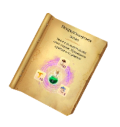
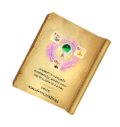
fix diary

diff --git a/src/view/component/dialog/ReplicaDiaryPanel.ts b/src/view/component/dialog/ReplicaDiaryPanel.ts
@@ -12,6 +12,8 @@ import Settings from '../../../core/service/Settings';
 export default class ReplicaDiaryPanel extends BasePanel {
     private static INITIAL_REVEAL_DELAY_MS = 10;
     private static INITIAL_REVEAL_FADE_MS = 500;
+    private static DIARY_EFFECT_LOCAL_X = 129;
+    private static DIARY_EFFECT_LOCAL_Y = 38 - 56 / 1.18 + 13;
 
     private blackTransparent: Phaser.Graphics;
     private diaryLayout: BasePanel;
@@ -21,8 +23,9 @@ export default class ReplicaDiaryPanel extends BasePanel {
 
     private finalScale = 0.9;
     private emitter: Phaser.Particles.Arcade.Emitter;
+    private emitterStartEvent: Phaser.TimerEvent;
     private layoutAlphaTween: Phaser.Tween;
-    private emitterAlphaTween: Phaser.Tween;
+    private diaryHighlightColor: string;
 
     private static RIGHT_SIDE_DX = -70;
 
@@ -39,47 +42,11 @@ export default class ReplicaDiaryPanel extends BasePanel {
         //diaryPreset - показ дневника во время мини-игры
         let diaryContent = diaryPrest && r.context.level != 3 ? DiaryConfiguration.getNextrecipe(r.context.level) : DiaryConfiguration.getCurrentRecipe(r.context.level, true);
 
-        if (highlight) {
-            // let emitter = game.add.emitter(0, 0, /*game.world.centerX, game.world.centerY,*/ 200);
-            this.emitter = game.add.emitter(game.world.centerX, game.world.centerY - 200, 10);
+        this.diaryHighlightColor = diaryContent && diaryContent.highlightColor ? diaryContent.highlightColor : null;
 
-            if(diaryContent.highlightColor && diaryContent.highlightColor == "pink"){
-                // this.emitter.makeParticles(["p6", "p7"]);
-                this.emitter.makeParticles(
-                    //warning! p6 and p7 have to be on the same atlas!
-                    SpriteUtils.getAtlasKeyAndFrame(this.game, "p6").atlasKey,
-                    [SpriteUtils.getAtlasKeyAndFrame(this.game, "p6").frameName, SpriteUtils.getAtlasKeyAndFrame(this.game, "p7").frameName]
-                );
-            } else if(diaryContent.highlightColor && diaryContent.highlightColor == "blue"){
-                // this.emitter.makeParticles(["p8", "p9"]);
-                this.emitter.makeParticles(
-                    //warning! p8 and p9 have to be on the same atlas!
-                    SpriteUtils.getAtlasKeyAndFrame(this.game, "p8").atlasKey,
-                    [SpriteUtils.getAtlasKeyAndFrame(this.game, "p8").frameName, SpriteUtils.getAtlasKeyAndFrame(this.game, "p9").frameName]
-                );
-            } else { //green
-                // this.emitter.makeParticles(["p5", "p2"]);
-                this.emitter.makeParticles(
-                    //warning! p2 and p5 have to be on the same atlas!
-                    SpriteUtils.getAtlasKeyAndFrame(this.game, "p2").atlasKey,
-                    [SpriteUtils.getAtlasKeyAndFrame(this.game, "p2").frameName, SpriteUtils.getAtlasKeyAndFrame(this.game, "p5").frameName]
-                );
-            }
-
-            this.emitter.gravity = new Phaser.Point(0, 0);
-            this.emitter.minSpeed = 100;
-            this.emitter.maxSpeed = 300;
-            // emitter.maxParticleScale = 0.7;
-            this.emitter.width = 400;
-            this.emitter.height = 600;
-            // emitter.alpha = 0.7;
-            this.emitter.start(false, 5000, 200);
-            this.emitter.setAlpha(0.7, 0, 5000, Settings.isOnlyLinearAnimations()?  Phaser.Easing.Linear.None :Phaser.Easing.Exponential.In, false);
-            this.emitter.setScale(0, 0.7, 0, 0.7, 1450, Settings.isOnlyLinearAnimations()?  Phaser.Easing.Linear.None :Phaser.Easing.Quadratic.In, false)
-            this.emitter.alpha = diaryPrest ? 0 : 1;
-            // emitter.x = 0;
-            // emitter.y = 0;
-            // this.addChild(emitter)
+        if (highlight && !diaryPrest) {
+            this.emitter = this.createDiaryEmitter(new Phaser.Point(game.world.centerX, game.world.centerY - 200));
+            this.startDiaryEmitter();
         }
 
        
@@ -96,8 +63,6 @@ export default class ReplicaDiaryPanel extends BasePanel {
             this.addChild(this.blackTransparent);
         }
 
-        
-
         if (!diaryContent) {
             return;
         }
@@ -109,7 +74,7 @@ export default class ReplicaDiaryPanel extends BasePanel {
         } else if (diaryContent.picture) {
             this.diaryLayout = new DiaryPictureLayout(this.game, diaryContent, this.game.width / 2 + 30, this.gameCenterY - 100);
         } else {
-            this.diaryLayout = new DiaryRecipeLayout(this.game, diaryContent, this.game.width / 2 + 30, this.gameCenterY - 100, animationsDelay);
+            this.diaryLayout = new DiaryRecipeLayout(this.game, diaryContent, this.game.width / 2 + 30, this.gameCenterY - 100, animationsDelay, !diaryPrest);
         }
 
         this.diaryLayout.anchor.set(0.5, 0.5)
@@ -146,6 +111,8 @@ export default class ReplicaDiaryPanel extends BasePanel {
     public show() {
         let time = this.diaryPreset ? 1000 : 300;
         this.stopRevealTweens();
+        this.stopEmitterStartEvent();
+        this.bringEmitterToStageTop();
 
         let alphaDelay = this.diaryPreset ? ReplicaDiaryPanel.INITIAL_REVEAL_DELAY_MS : 500;
         let alphaTime = this.diaryPreset ? ReplicaDiaryPanel.INITIAL_REVEAL_FADE_MS : time;
@@ -158,14 +125,6 @@ export default class ReplicaDiaryPanel extends BasePanel {
         this.layoutAlphaTween.onComplete.addOnce(() => {
             this.layoutAlphaTween = null;
         });
-
-        if (this.diaryPreset && this.emitter) {
-            this.emitter.alpha = 0;
-            this.emitterAlphaTween = this.game.add.tween(this.emitter).to({ alpha: 1 }, alphaTime, alphaEasing, true, alphaDelay, 0, false);
-            this.emitterAlphaTween.onComplete.addOnce(() => {
-                this.emitterAlphaTween = null;
-            });
-        }
         if (this.blackTransparent) {
             this.game.add.tween(this.blackTransparent).to({ alpha: 0.5 }, time, Settings.isOnlyLinearAnimations()?  Phaser.Easing.Linear.None :Phaser.Easing.Quadratic.In, true, 500, 0, false);
         }
@@ -174,6 +133,10 @@ export default class ReplicaDiaryPanel extends BasePanel {
 
         if (this.diaryPreset) {
             this.game.add.tween(this.diaryLayout).to({ angle: 365 }, time, Settings.isOnlyLinearAnimations()?  Phaser.Easing.Linear.None :Phaser.Easing.Quadratic.In, true, 500, 0, false);
+            this.emitterStartEvent = this.game.time.events.add(500 + time, () => {
+                this.emitterStartEvent = null;
+                this.recreateDiaryEmitterAtCurrentPosition();
+            });
         }
 
         // if (highlight) {
@@ -192,6 +155,7 @@ export default class ReplicaDiaryPanel extends BasePanel {
 
     public hide() {
         this.stopRevealTweens();
+        this.stopEmitterStartEvent();
         if (this.blackTransparent) {
             this.game.add.tween(this.blackTransparent).to({ alpha: 0 }, 300, Settings.isOnlyLinearAnimations()?  Phaser.Easing.Linear.None :Phaser.Easing.Quadratic.In, true, 200, 0, false);
             this.game.time.events.add(300 + 1, () => this.blackTransparent.kill());
@@ -203,9 +167,16 @@ export default class ReplicaDiaryPanel extends BasePanel {
                 this.emitter.killAll();
                 this.emitter.kill();
             }
+            this.diaryLayout.onKill();
             this.diaryLayout.alpha = 0;
             this.diaryLayout.kill();
         });
+    }
+
+    public update(): void {
+        if (this.diaryPreset && this.emitter) {
+            this.syncEmitterToDiary();
+        }
     }
 
     private stopRevealTweens(): void {
@@ -213,9 +184,106 @@ export default class ReplicaDiaryPanel extends BasePanel {
             this.layoutAlphaTween.stop(false);
             this.layoutAlphaTween = null;
         }
-        if (this.emitterAlphaTween) {
-            this.emitterAlphaTween.stop(false);
-            this.emitterAlphaTween = null;
+    }
+
+    private stopEmitterStartEvent(): void {
+        if (!this.emitterStartEvent) {
+            return;
         }
+
+        this.game.time.events.remove(this.emitterStartEvent);
+        this.emitterStartEvent = null;
+    }
+
+    private recreateDiaryEmitterAtCurrentPosition(): void {
+        if (this.emitter) {
+            this.emitter.killAll();
+            this.emitter.kill();
+            this.emitter.destroy(true);
+            this.emitter = null;
+        }
+
+        this.emitter = this.createDiaryEmitter(this.getDiaryEmitterGlobalPoint());
+        this.startDiaryEmitter();
+        this.syncEmitterToDiary();
+    }
+
+    private createDiaryEmitter(globalPoint: Phaser.Point): Phaser.Particles.Arcade.Emitter {
+        let emitter = this.game.add.emitter(globalPoint.x, globalPoint.y, 10);
+
+        if (this.diaryHighlightColor == "pink") {
+            emitter.makeParticles(
+                SpriteUtils.getAtlasKeyAndFrame(this.game, "p6").atlasKey,
+                [SpriteUtils.getAtlasKeyAndFrame(this.game, "p6").frameName, SpriteUtils.getAtlasKeyAndFrame(this.game, "p7").frameName]
+            );
+        } else if (this.diaryHighlightColor == "blue") {
+            emitter.makeParticles(
+                SpriteUtils.getAtlasKeyAndFrame(this.game, "p8").atlasKey,
+                [SpriteUtils.getAtlasKeyAndFrame(this.game, "p8").frameName, SpriteUtils.getAtlasKeyAndFrame(this.game, "p9").frameName]
+            );
+        } else {
+            emitter.makeParticles(
+                SpriteUtils.getAtlasKeyAndFrame(this.game, "p2").atlasKey,
+                [SpriteUtils.getAtlasKeyAndFrame(this.game, "p2").frameName, SpriteUtils.getAtlasKeyAndFrame(this.game, "p5").frameName]
+            );
+        }
+
+        emitter.gravity = new Phaser.Point(0, 0);
+        emitter.minSpeed = 100;
+        emitter.maxSpeed = 300;
+        emitter.width = 400;
+        emitter.height = 600;
+
+        return emitter;
+    }
+
+    private startDiaryEmitter(): void {
+        if (!this.emitter) {
+            return;
+        }
+
+        this.emitter.start(false, 5000, 200);
+        this.emitter.setAlpha(0.7, 0, 5000, Settings.isOnlyLinearAnimations()?  Phaser.Easing.Linear.None :Phaser.Easing.Exponential.In, false);
+        this.emitter.setScale(0, 0.7, 0, 0.7, 1450, Settings.isOnlyLinearAnimations()?  Phaser.Easing.Linear.None :Phaser.Easing.Quadratic.In, false)
+    }
+
+    private getDiaryEmitterGlobalPoint(): Phaser.Point {
+        if (!this.diaryLayout || !(<any>this.diaryLayout).toGlobal) {
+            return new Phaser.Point(this.game.world.centerX, this.game.world.centerY - 200);
+        }
+
+        return (<any>this.diaryLayout).toGlobal(new Phaser.Point(
+            ReplicaDiaryPanel.DIARY_EFFECT_LOCAL_X,
+            ReplicaDiaryPanel.DIARY_EFFECT_LOCAL_Y
+        ));
+    }
+
+    private syncEmitterToDiary(): void {
+        if (!this.emitter) {
+            return;
+        }
+
+        let globalPoint = this.getDiaryEmitterGlobalPoint();
+        this.emitter.x = globalPoint.x;
+        this.emitter.y = globalPoint.y;
+        this.bringEmitterToStageTop();
+    }
+
+    private bringEmitterToStageTop(): void {
+        if (!this.emitter) {
+            return;
+        }
+
+        let globalPoint = this.emitter.parent && (<any>this.emitter.parent).toGlobal
+            ? (<any>this.emitter.parent).toGlobal(new Phaser.Point(this.emitter.x, this.emitter.y))
+            : new Phaser.Point(this.emitter.x, this.emitter.y);
+
+        if (this.emitter.parent != this.game.stage) {
+            this.game.stage.addChild(this.emitter);
+        }
+
+        this.emitter.x = globalPoint.x;
+        this.emitter.y = globalPoint.y;
+        this.game.stage.setChildIndex(this.emitter, this.game.stage.children.length - 1);
     }
 }

diff --git a/src/view/component/diary/DiaryRecipeLayout.ts b/src/view/component/diary/DiaryRecipeLayout.ts
@@ -8,8 +8,9 @@ import Settings from '../../../core/service/Settings';
 import LocalizationService from '../../../core/localization/LocalizationService';
 import LocalizationKey from '../../../core/localization/LocalizationKey';
 export default class DiaryRecipeLayout extends BasePanel {
+    private particlesEvent: Phaser.TimerEvent;
 
-    constructor(game: Phaser.Game, recipeContent: DiaryContentType, x: number, y: number, animationsDelay?: number) {
+    constructor(game: Phaser.Game, recipeContent: DiaryContentType, x: number, y: number, animationsDelay?: number, showParticles: boolean = true) {
         super(game, x, y, "diaryLayout", "blank");
 
         let bg = SpriteUtils.createSprite(this.game, 0, 0, "bookBg");
@@ -68,11 +69,14 @@ export default class DiaryRecipeLayout extends BasePanel {
             AnimationUtils.heartBeat(this.game, result);
         }
 
-        this.game.time.events.add(animationsDelay || 0, () => {
-            positions.forEach(p => {
-                this.createParticles(p.x, p.y);
-            })
-        })
+        if (showParticles) {
+            this.particlesEvent = this.game.time.events.add(animationsDelay || 0, () => {
+                this.particlesEvent = null;
+                positions.forEach(p => {
+                    this.createParticles(p.x, p.y);
+                });
+            });
+        }
 
         positions.forEach((p, i) => {
             let ingredientBg = SpriteUtils.createSprite(this.game, p.x, p.y, "ingredientBg");
@@ -128,6 +132,15 @@ export default class DiaryRecipeLayout extends BasePanel {
         emitter.height = 170;
 
         emitter.start(false, 2000, 100)
+    }
+
+    public onKill(): void {
+        if (!this.particlesEvent) {
+            return;
+        }
+
+        this.game.time.events.remove(this.particlesEvent);
+        this.particlesEvent = null;
     }
 
 }
